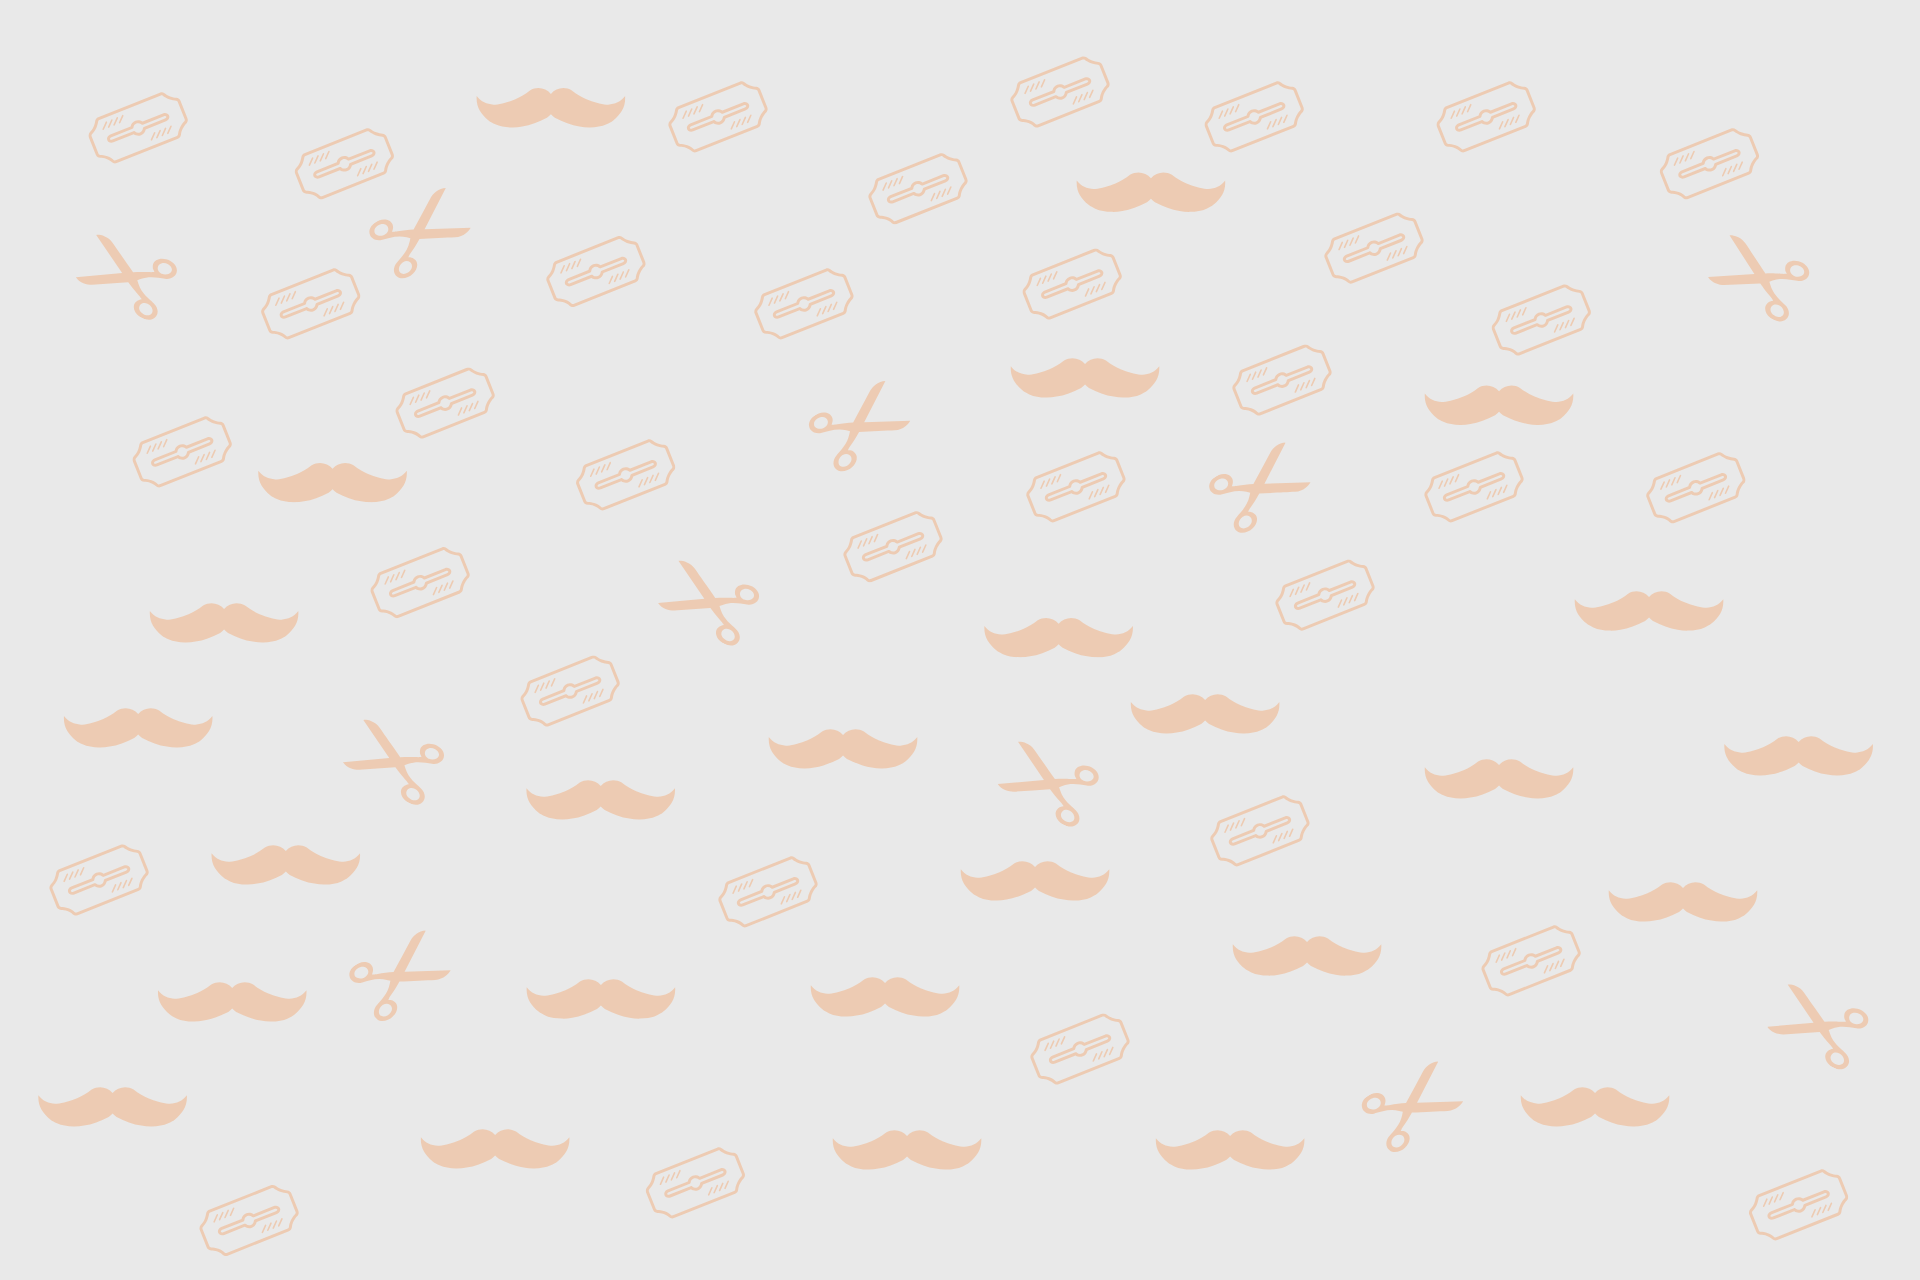
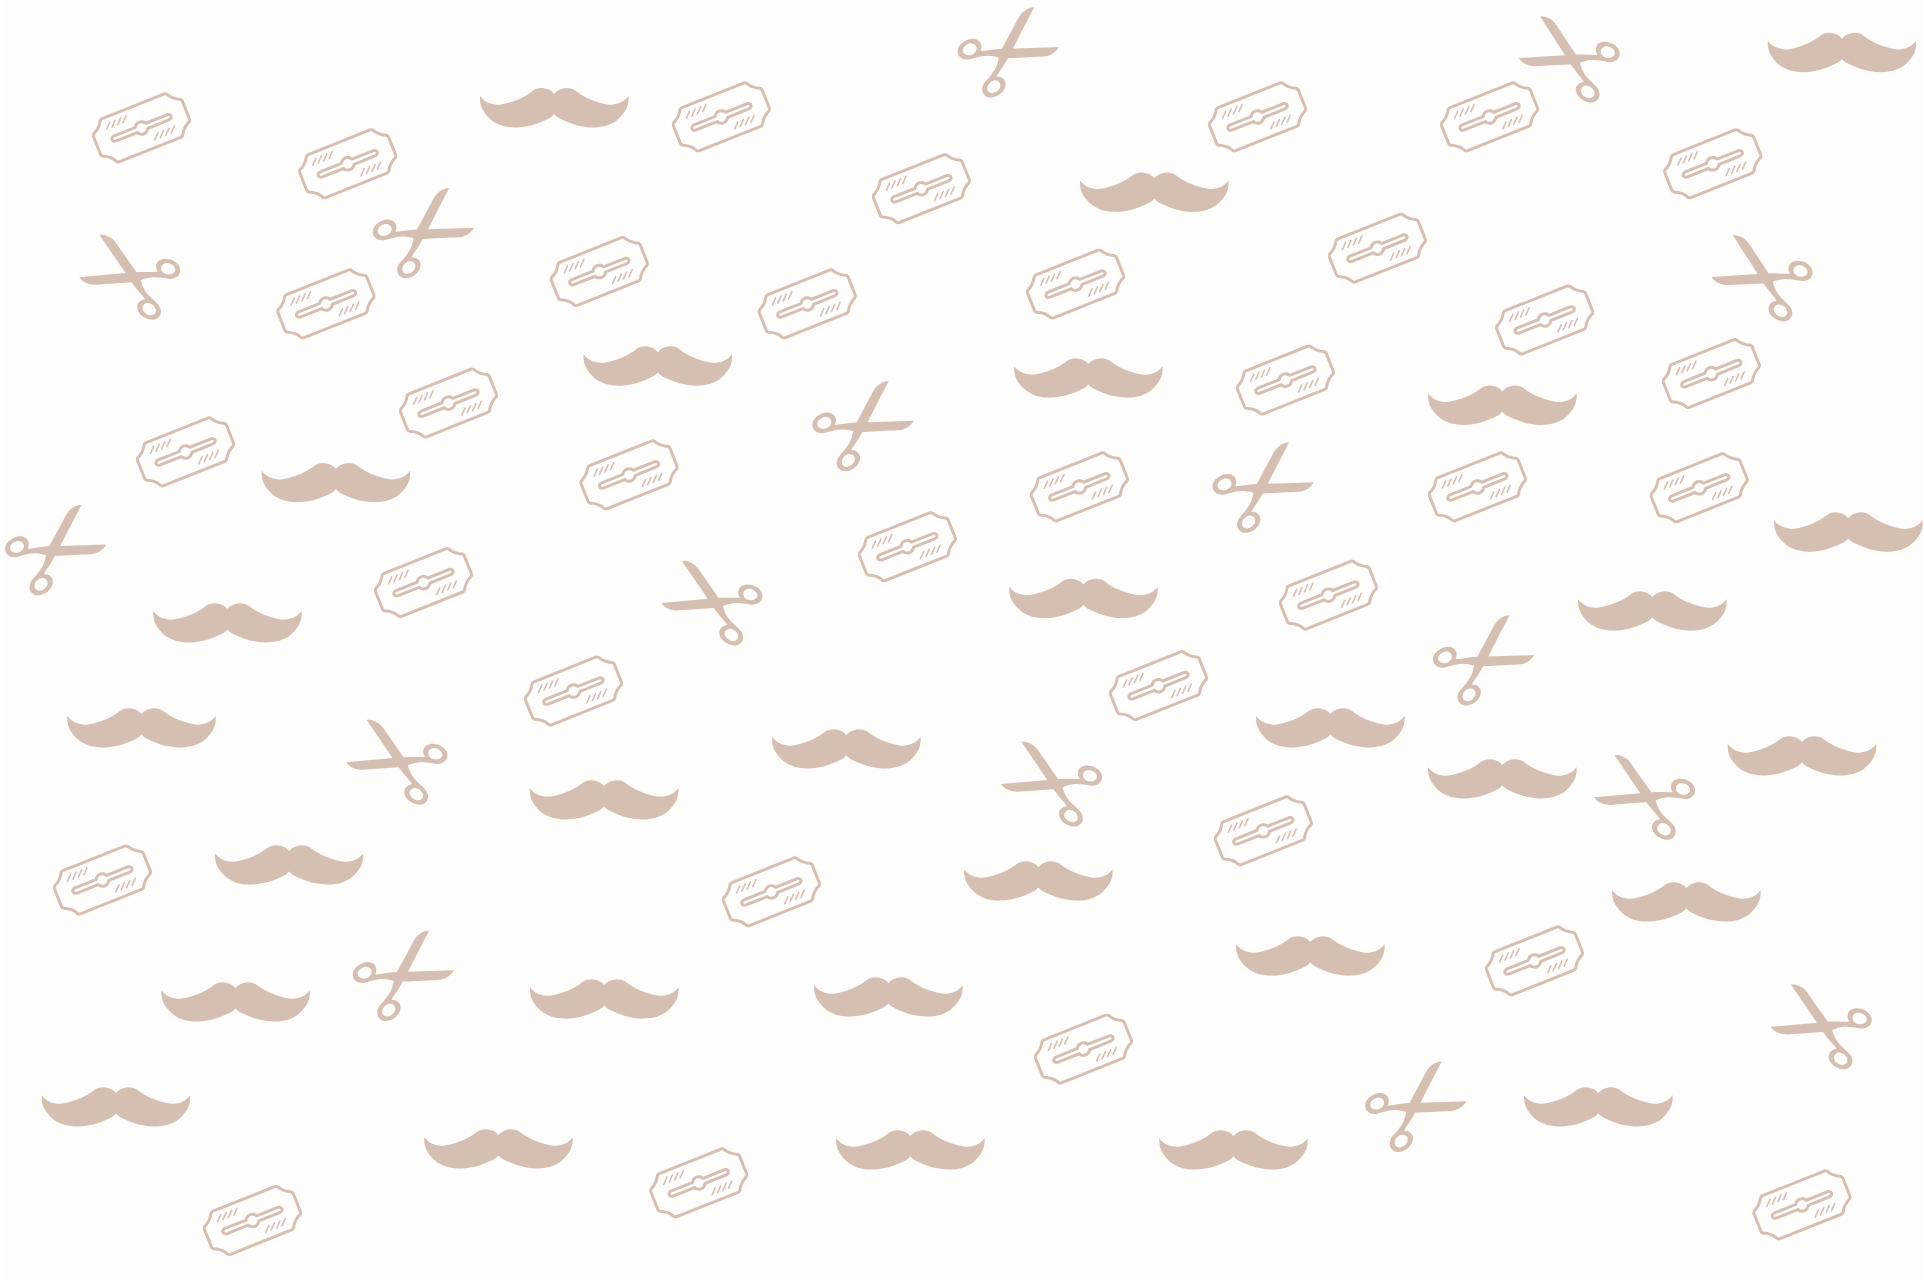
refactor: Adicionando novo background e organizando estrutura de pastas.

diff --git a/frontend/src/pages/home/banner/Banner.tsx b/frontend/src/pages/home/banner/Banner.tsx
@@ -1,9 +1,9 @@
 import React from 'react';
-import { useNavigate } from 'react-router-dom'; // Passo 1
-import backgroundImage from "../../../../images/fundo_banner.png";
+import { useNavigate } from 'react-router-dom';
+import backgroundImage from "../../../images/fundo_banner.png";
 
 export default function Banner() {
-    const navigate = useNavigate(); // Passo 2
+    const navigate = useNavigate();
 
     return (
         <div className="relative w-full h-screen">
@@ -22,7 +22,7 @@ export default function Banner() {
 
                 <div className="mt-10">
                     <button 
-                        onClick={() => navigate('/schedule')} // Passo 3
+                        onClick={() => navigate('/schedule')}
                         className="inline-flex h-12 items-center rounded-md bg-orange-500 px-4 text-lg font-medium text-gray-50 transition-colors hover:bg-orange-600 focus-visible:outline-none focus-visible:ring-1 focus-visible:ring-gray-950 disabled:pointer-events-none disabled:opacity-50"
                     >
                         Agende seu horário!

diff --git a/frontend/src/pages/home/content/Content.tsx b/frontend/src/pages/home/content/Content.tsx
@@ -1,7 +1,7 @@
-import backgroundImage from '../../../../images/background.png';
-import corteCabelo from '../../../../images/corte_cabelo.jpg';
-import barbeariaImage from '../../../../images/barbearia.jpg';
-import Card from './components/Cards/Cards'; // Verifique se o nome do arquivo é `Card.js` ou `Card.tsx`
+import backgroundImage from '../../../images/background.png';
+import corteCabelo from '../../../images/corte_cabelo.jpg';
+import barbeariaImage from '../../../images/barbearia.jpg';
+import Card from './components/Cards/Cards';
 import Price from './components/Price/Price';
 import Location from './components/Location/Location';
 

diff --git a/frontend/src/pages/home/content/components/Price/Price.tsx b/frontend/src/pages/home/content/components/Price/Price.tsx
@@ -1,7 +1,7 @@
 import React from 'react';
 import useMediaQuery from '@material-ui/core/useMediaQuery';
-import novaImagem from '../../../../../../images/servicos.png'; // Substitua pelo caminho correto da nova imagem
-import novaImagemMobile from '../../../../../../images/servicosMobile.png'; // Substitua pelo caminho correto da versão móvel da nova imagem
+import novaImagem from '../../../../../images/servicos.png';
+import novaImagemMobile from '../../../../../images/servicosMobile.png';
 
 export default function Price () {
     const isMobile = useMediaQuery('(max-width:600px)');

diff --git a/frontend/src/pages/home/content/components/Cards/Cards.tsx b/frontend/src/pages/home/content/components/Cards/Cards.tsx
@@ -1,10 +1,10 @@
 import React from 'react';
 import './Cards.css';
-import GradualSpacing from '../../../animation/gradualSpacing';
+import GradualSpacing from '../../../../../components/animation/gradualSpacing';
 
 interface CardProps {
   initialImagePosition?: 'left' | 'right';
-  textAlignment?: 'left' | 'right'; // Adicionado nova propriedade para alinhamento do texto
+  textAlignment?: 'left' | 'right';
   imageSrc: string;
   title: string;
   description: string;

diff --git a/frontend/src/pages/home/Home.tsx b/frontend/src/pages/home/Home.tsx
@@ -1,12 +1,11 @@
-import Banner from './components/banner/Banner';
-import Content from './components/content/Content';
+import Banner from './banner/Banner';
+import Content from './content/Content';
 
 export default function Home () {
     return (
       <div>
         <Banner />
         <Content />
-        
       </div>
     )
 }
